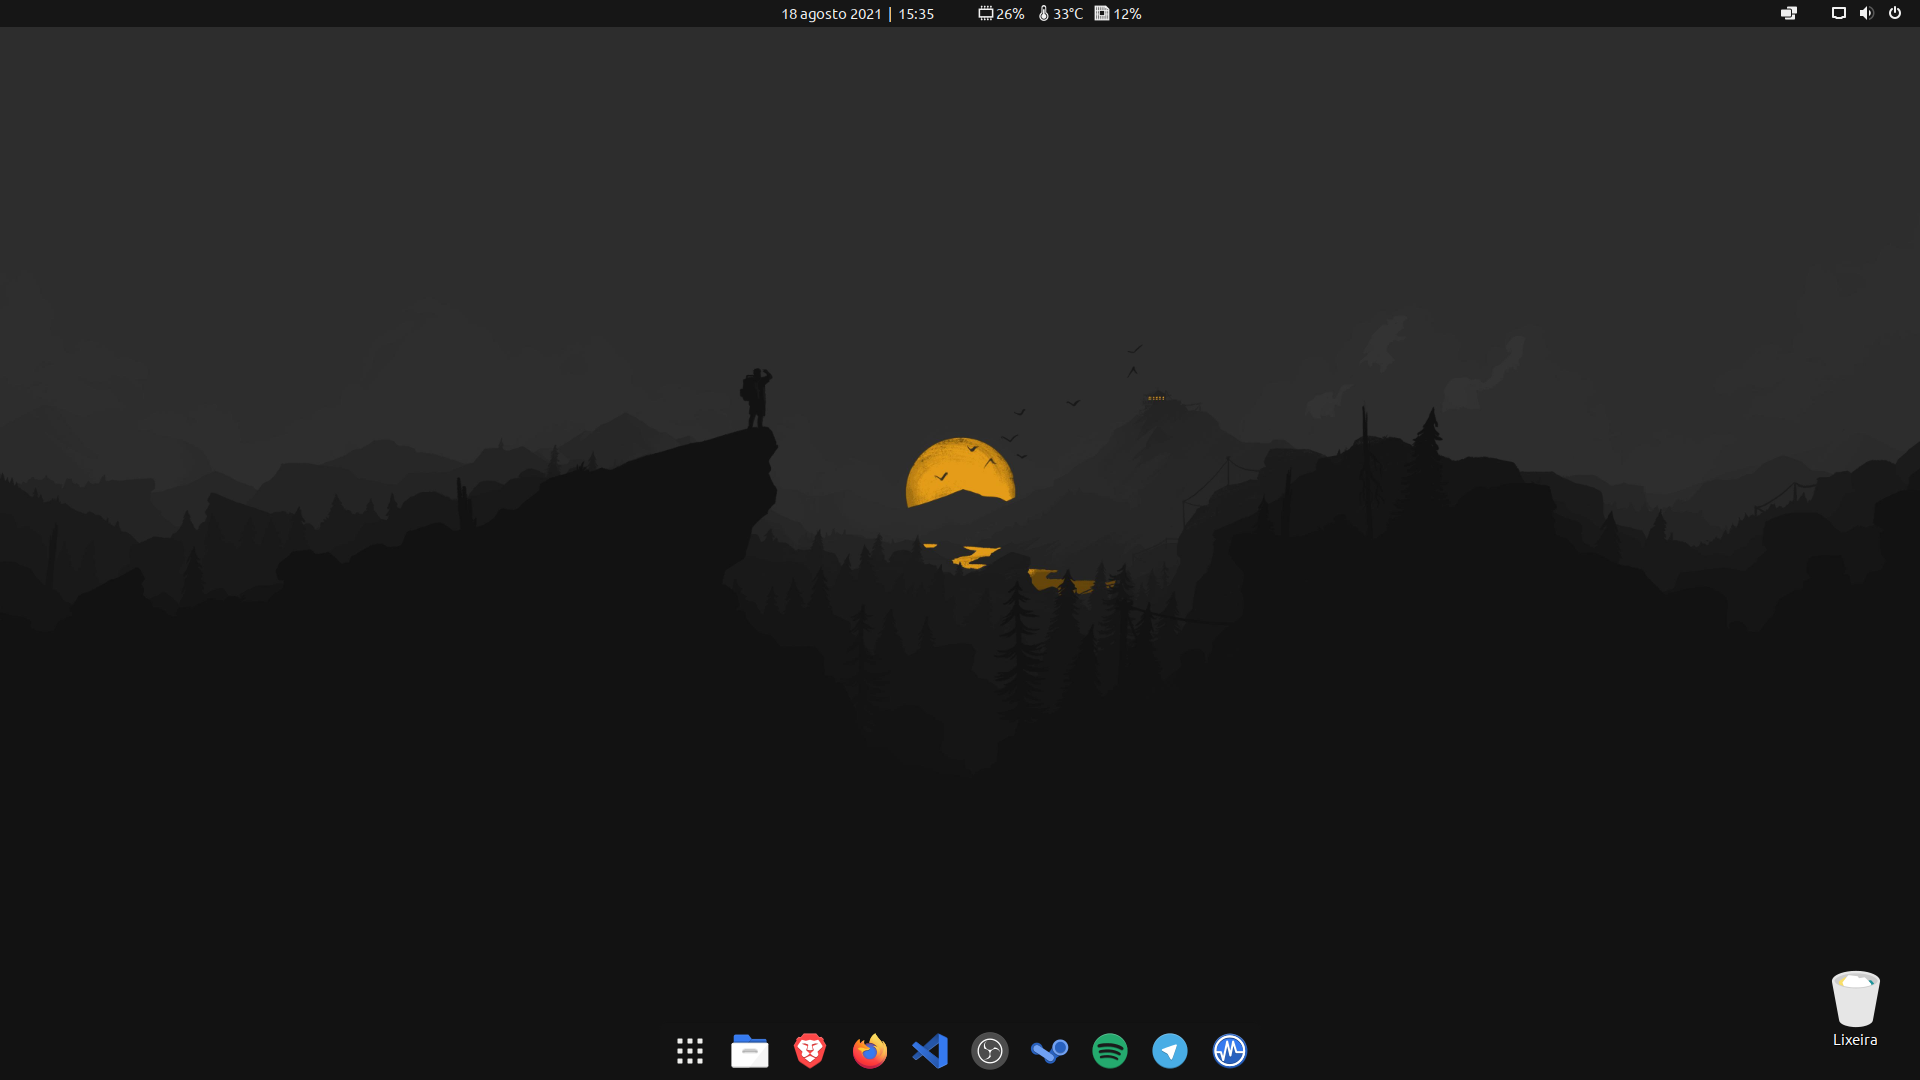
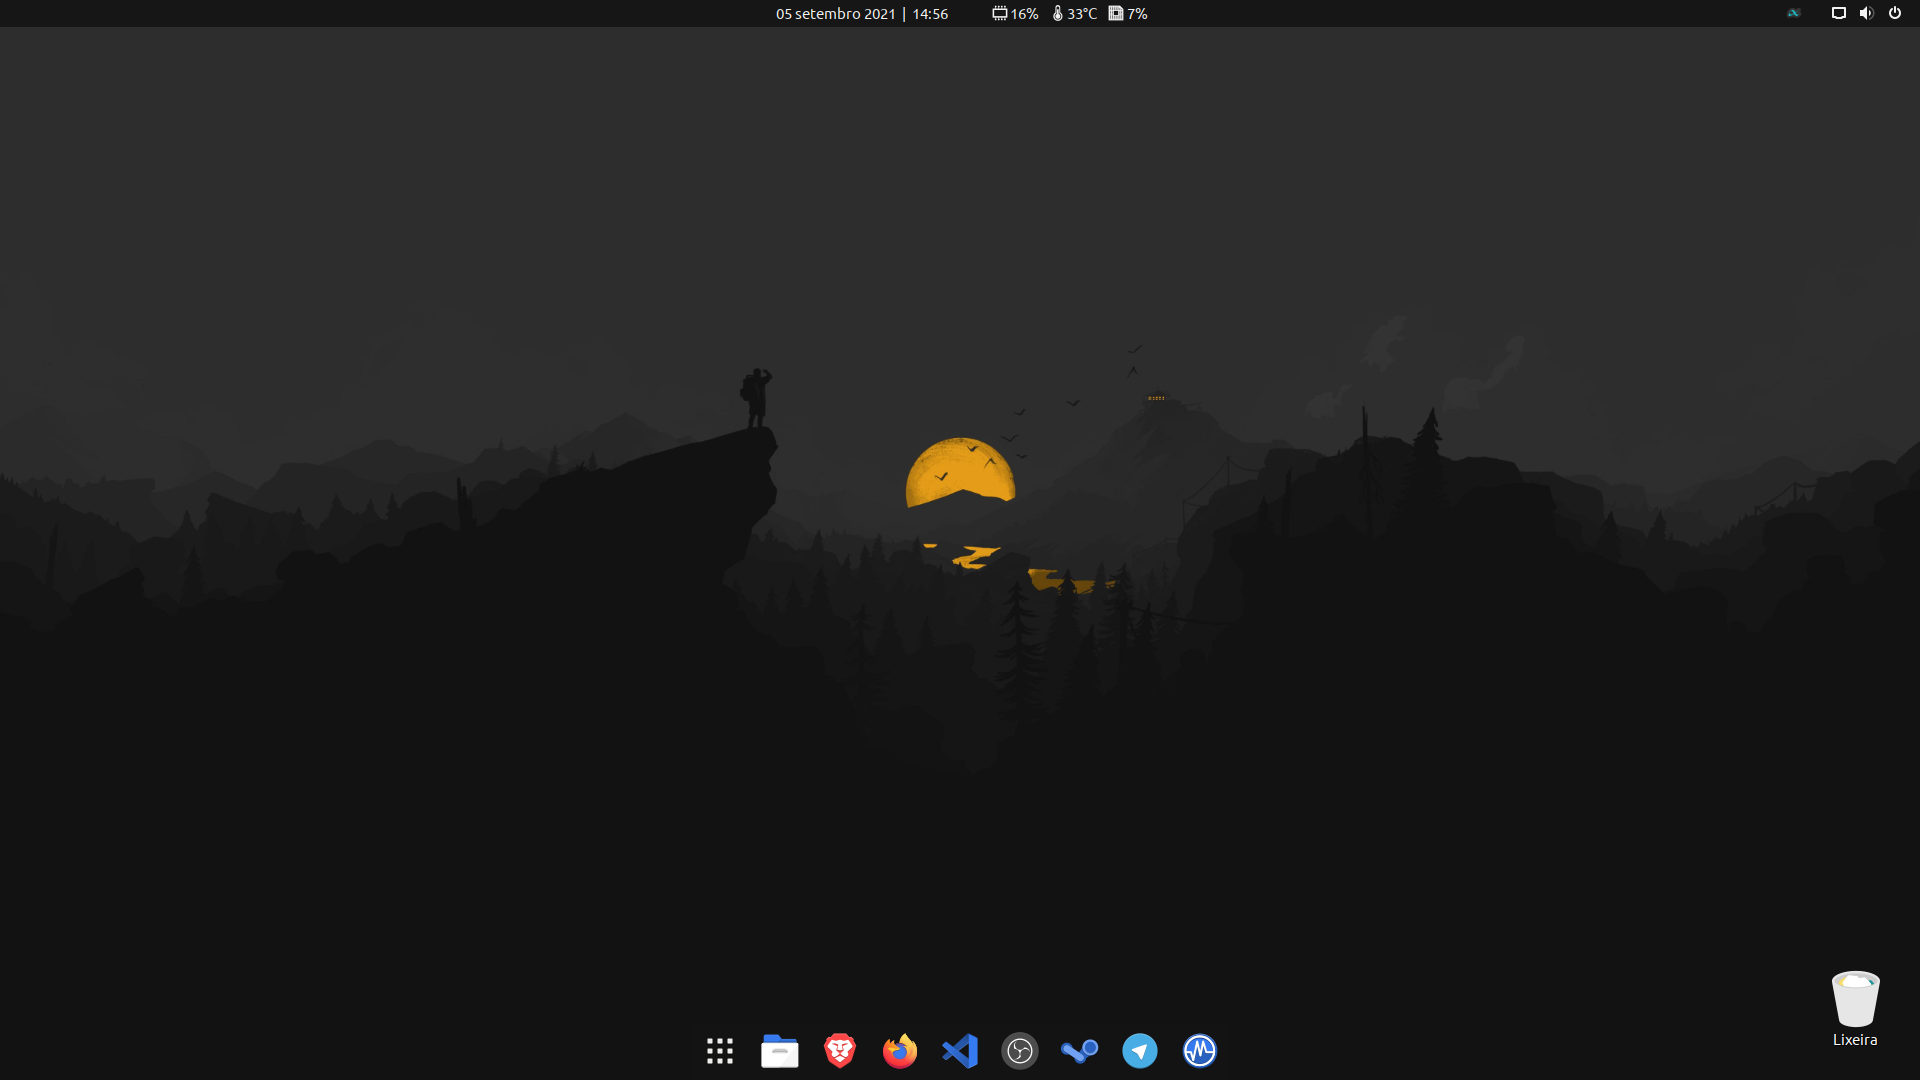
Adição do launcher Albert.

Changed region(s): [[0.3438, 0.9472, 0.6562, 1.0], [0.4062, 0.0, 0.5938, 0.0306], [0.9062, 0.0, 0.9375, 0.0306]]

diff --git a/README.md b/README.md
@@ -24,10 +24,9 @@ Este Script foi desenvolvido para ser utilizado na base 20.04 do Ubuntu, sendo s
 - User Themes.
 - Remove Dropdown Arrows.
 - Desktop Icons NG (DING).
-- Pop Shell.
 ### Aparência final:
 
 ![](files/screenshot.png)
 
 ### Ultima Modificação:
->28 Ago 2021
+>05 Set 2021
